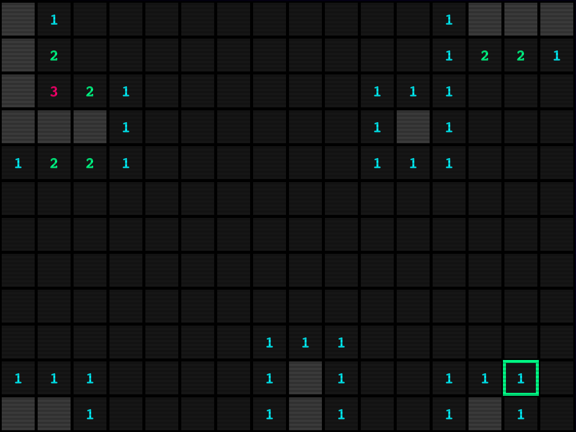
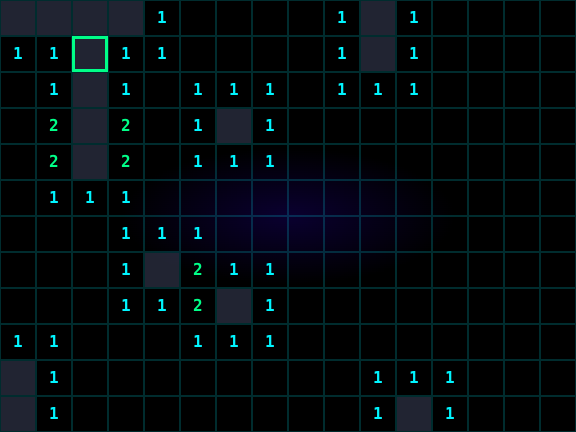
style(buscaminas): el tablero usa los colores del tema
Fuera del alcance de la SPEC 25 (§2 dice que los otros cuatro juegos
quedan igual); va en commit aparte y a peticion explicita del usuario.

Las celdas eran los ultimos literales fuera del tema que quedaban en un
lienzo: #3a3a3a la oculta, #161616 la revelada, #5c1a1a la mina y #000 de
borde. Ademas eran opacas, asi que tapaban por completo el resplandor de
.minas-stage y el tablero se veia como una losa gris.

Ahora el lienzo se limpia con clearRect, el borde es la misma rejilla
--line que dibuja TETRIX, la celda revelada no pinta nada encima (el
hueco vacio de TETRIX), la oculta es un velo de --ink-faint y la mina
--red, las dos translucidas. Se probo --bg-3 para el velo y se descarto:
dejaba de distinguirse lo descubierto de lo que falta, que es la lectura
mas importante de un buscaminas.

Los numeros, el cursor y la bandera ya salian del tema y no cambian.
Portada regenerada.

Changed region(s): [[0.0, 0.0, 1.0, 1.0]]

diff --git a/components/buscaminas-game.tsx b/components/buscaminas-game.tsx
@@ -43,6 +43,17 @@ type Palette = {
   flag: string;
   ink: string;
   inkFaint: string;
+  /** Rejilla del tablero: la misma `--line` cian que dibuja TETRIX. */
+  grid: string;
+  /**
+   * Velo de la celda sin descubrir; se pinta con HIDDEN_ALPHA. Es `--ink-faint`
+   * y no un gris de fondo a propósito: distinguir lo descubierto de lo que
+   * falta es la lectura más importante del tablero, y un velo demasiado oscuro
+   * la borra —se probó con `--bg-3` y las dos clases de celda se confundían—.
+   */
+  hidden: string;
+  /** Casilla con mina ya revelada; se pinta con MINE_ALPHA. */
+  mine: string;
 };
 
 const ADJACENCY_VARS = [
@@ -73,13 +84,25 @@ const PALETTE_FALLBACK: Palette = {
   flag: "#ff006e",
   ink: "#e6e9ff",
   inkFaint: "#4a4f70",
+  grid: "rgba(0, 245, 255, 0.18)",
+  hidden: "#4a4f70",
+  mine: "#ff2f45",
 };
 
-/** Fondo del escenario, sin tokenizar: mismo criterio que `.tetris-stage`. */
-const HIDDEN_FILL = "#3a3a3a";
-const REVEALED_FILL = "#161616";
-const REVEALED_MINE_FILL = "#5c1a1a";
-const CELL_BORDER = "#000";
+/**
+ * Opacidades de las celdas. El tablero ya no se pinta con grises planos
+ * (`#3a3a3a` oculta, `#161616` revelada, `#000` de borde) heredados de la
+ * referencia: eran los únicos literales fuera del tema en el lienzo, y además
+ * tapaban por completo el resplandor de `.minas-stage` —el tablero quedaba
+ * como una losa gris dentro de un tubo de neón—.
+ *
+ * Ahora la celda oculta es un velo translúcido sobre ese resplandor, la
+ * revelada no pinta nada (como el hueco vacío de TETRIX) y el borde es la
+ * misma rejilla cian `--line` que dibuja TETRIX. El color sale del tema; lo
+ * único propio de aquí es cuánta luz deja pasar cada estado.
+ */
+const HIDDEN_ALPHA = 0.45;
+const MINE_ALPHA = 0.35;
 
 export type BuscaminasRun = { score: number; lives: number; level: number };
 
@@ -231,8 +254,9 @@ export function BuscaminasGame({
     if (!ctx) return;
     const colors = paletteRef.current;
 
-    ctx.fillStyle = CELL_BORDER;
-    ctx.fillRect(0, 0, WIDTH, HEIGHT);
+    // Transparente, no negro: igual que TETRIX, el lienzo deja ver el
+    // resplandor de `.minas-stage` que hay detrás.
+    ctx.clearRect(0, 0, WIDTH, HEIGHT);
 
     for (let r = 0; r < ROWS; r++) {
       for (let c = 0; c < COLS; c++) {
@@ -243,10 +267,18 @@ export function BuscaminasGame({
         const cy = y + CELL / 2;
 
         if (cell.revealed) {
-          ctx.fillStyle = cell.mine ? REVEALED_MINE_FILL : REVEALED_FILL;
-          ctx.fillRect(x, y, CELL, CELL);
-          ctx.strokeStyle = CELL_BORDER;
-          ctx.strokeRect(x, y, CELL, CELL);
+          // Terreno despejado: no se pinta nada encima, sólo la rejilla, igual
+          // que una celda vacía del tablero de TETRIX. La mina sí se marca, en
+          // el rojo del tema y translúcida para no apagar el resplandor.
+          if (cell.mine) {
+            ctx.globalAlpha = MINE_ALPHA;
+            ctx.fillStyle = colors.mine;
+            ctx.fillRect(x, y, CELL, CELL);
+            ctx.globalAlpha = 1;
+          }
+          ctx.strokeStyle = colors.grid;
+          ctx.lineWidth = 1;
+          ctx.strokeRect(x + 0.5, y + 0.5, CELL - 1, CELL - 1);
 
           if (cell.mine) {
             drawMine(ctx, cx, cy, colors);
@@ -258,10 +290,14 @@ export function BuscaminasGame({
             ctx.fillText(String(cell.adjacent), cx, cy + 1);
           }
         } else {
-          ctx.fillStyle = HIDDEN_FILL;
+          // Terreno por descubrir: un velo del fondo del tema, no un gris.
+          ctx.globalAlpha = HIDDEN_ALPHA;
+          ctx.fillStyle = colors.hidden;
           ctx.fillRect(x + 1, y + 1, CELL - 2, CELL - 2);
-          ctx.strokeStyle = CELL_BORDER;
-          ctx.strokeRect(x, y, CELL, CELL);
+          ctx.globalAlpha = 1;
+          ctx.strokeStyle = colors.grid;
+          ctx.lineWidth = 1;
+          ctx.strokeRect(x + 0.5, y + 0.5, CELL - 1, CELL - 1);
           if (cell.flagged) drawFlag(ctx, cx, cy, colors);
         }
       }
@@ -340,12 +376,18 @@ export function BuscaminasGame({
     const flag = root.getPropertyValue("--magenta").trim();
     const ink = root.getPropertyValue("--ink").trim();
     const inkFaint = root.getPropertyValue("--ink-faint").trim();
+    const grid = root.getPropertyValue("--line").trim();
+    const hidden = root.getPropertyValue("--ink-faint").trim();
+    const mine = root.getPropertyValue("--red").trim();
     paletteRef.current = {
       adjacency,
       cursor: cursor || PALETTE_FALLBACK.cursor,
       flag: flag || PALETTE_FALLBACK.flag,
       ink: ink || PALETTE_FALLBACK.ink,
       inkFaint: inkFaint || PALETTE_FALLBACK.inkFaint,
+      grid: grid || PALETTE_FALLBACK.grid,
+      hidden: hidden || PALETTE_FALLBACK.hidden,
+      mine: mine || PALETTE_FALLBACK.mine,
     };
     draw();
     publish();
